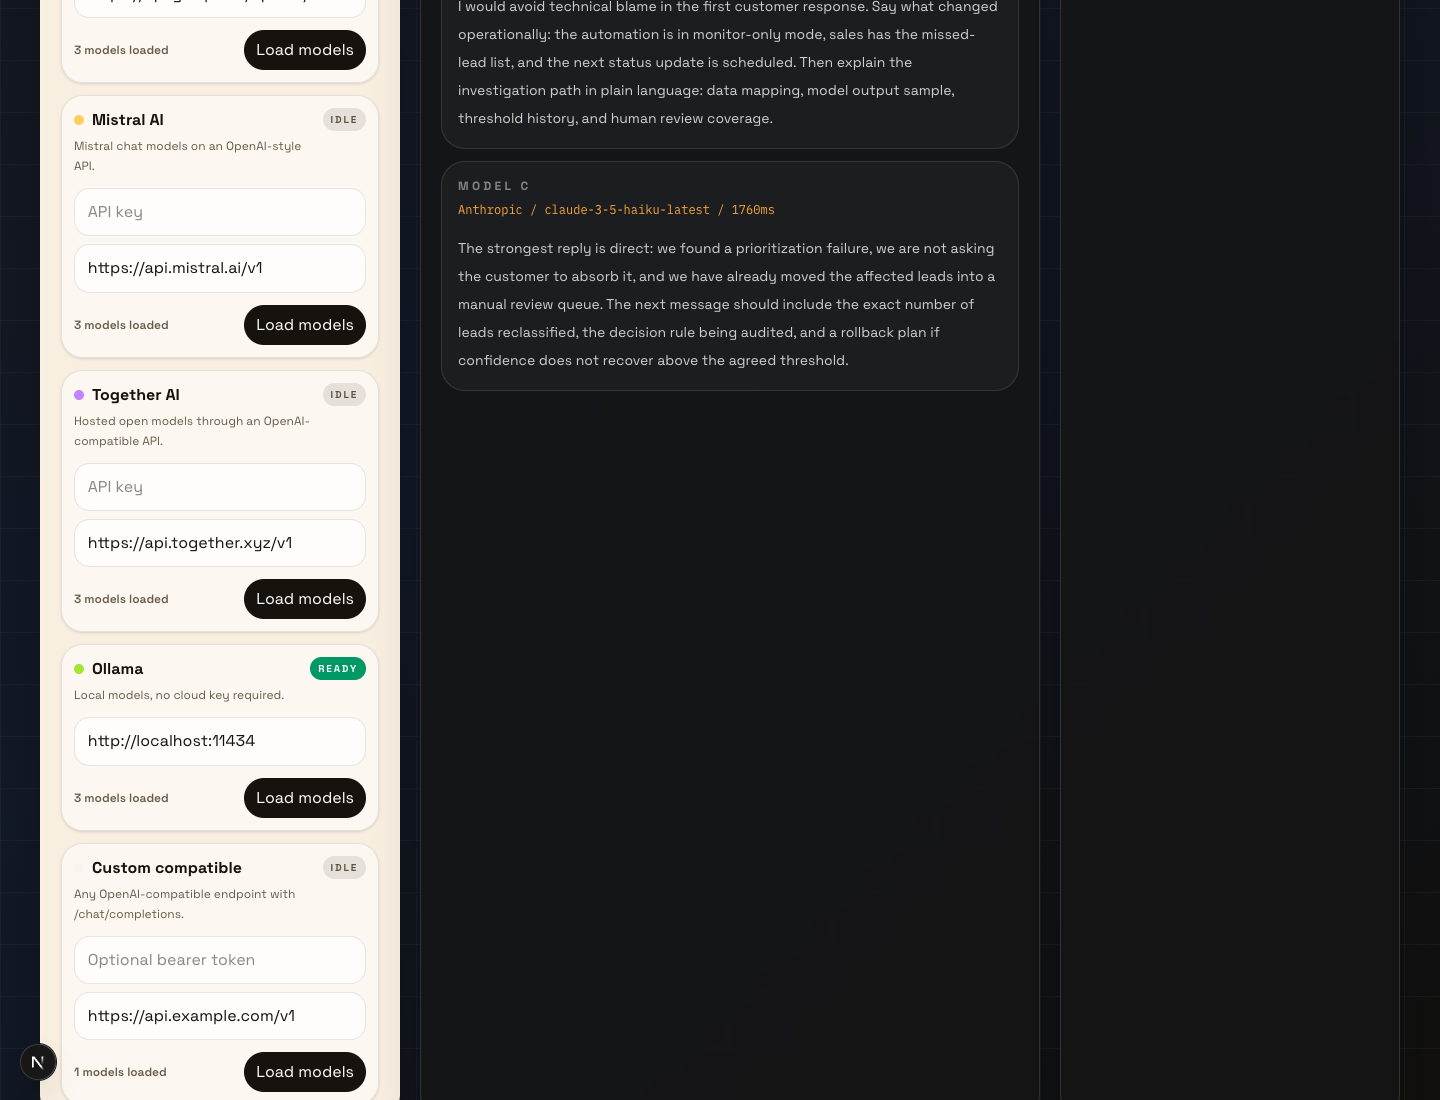
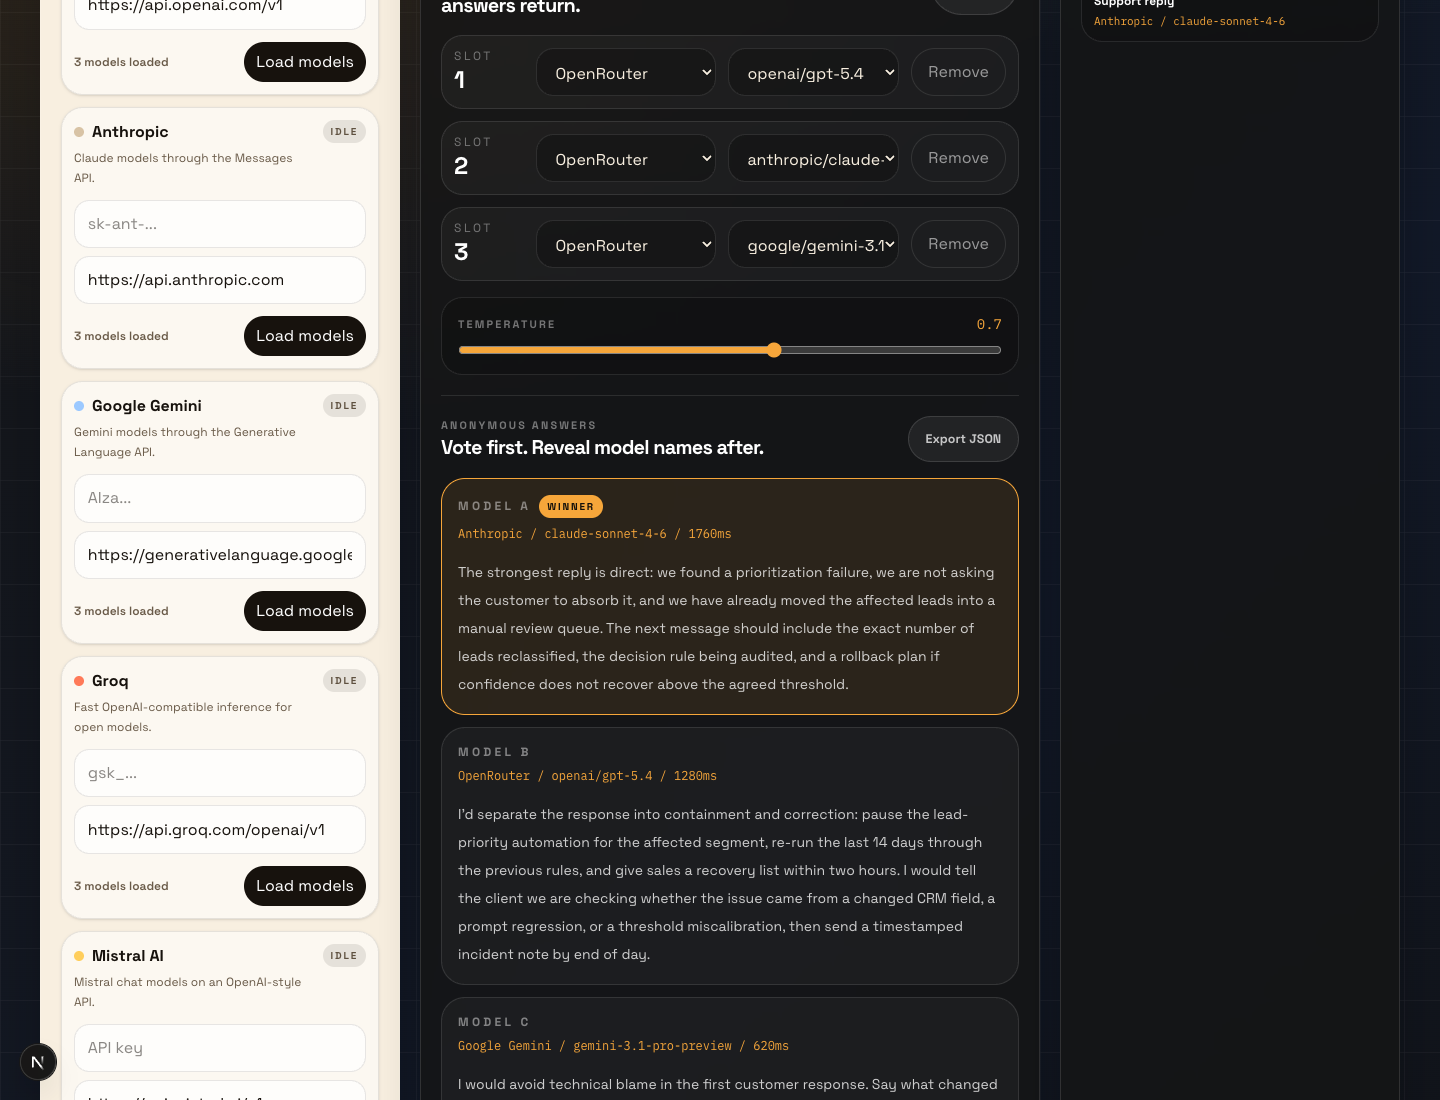
Refresh default model lineup

diff --git a/src/lib/providers.ts b/src/lib/providers.ts
@@ -74,9 +74,12 @@ export const providerDefinitions: ProviderDefinition[] = [
     description: "One key for many frontier and open models.",
     docsUrl: "https://openrouter.ai/docs",
     featured: [
-      "openai/gpt-4o-mini",
-      "anthropic/claude-3.5-haiku",
-      "google/gemini-flash-1.5",
+      "openai/gpt-5.4",
+      "openai/gpt-5.4-mini",
+      "anthropic/claude-opus-4.6-fast",
+      "anthropic/claude-sonnet-4.6",
+      "google/gemini-3.1-pro-preview",
+      "qwen/qwen3.6-plus",
     ],
     keyPlaceholder: "sk-or-...",
   },
@@ -90,7 +93,7 @@ export const providerDefinitions: ProviderDefinition[] = [
     accent: "#6ee7b7",
     description: "Direct OpenAI Chat Completions-compatible endpoint.",
     docsUrl: "https://platform.openai.com/docs/api-reference/chat",
-    featured: ["gpt-4o-mini", "gpt-4.1-mini", "gpt-4.1"],
+    featured: ["gpt-5.4", "gpt-5.4-mini", "gpt-5.4-nano"],
     keyPlaceholder: "sk-...",
   },
   {
@@ -104,9 +107,9 @@ export const providerDefinitions: ProviderDefinition[] = [
     description: "Claude models through the Messages API.",
     docsUrl: "https://docs.anthropic.com/en/api/messages",
     featured: [
-      "claude-3-5-haiku-latest",
-      "claude-3-5-sonnet-latest",
-      "claude-3-opus-latest",
+      "claude-opus-4-6",
+      "claude-sonnet-4-6",
+      "claude-haiku-4-5-20251001",
     ],
     keyPlaceholder: "sk-ant-...",
   },
@@ -120,7 +123,11 @@ export const providerDefinitions: ProviderDefinition[] = [
     accent: "#9cc9ff",
     description: "Gemini models through the Generative Language API.",
     docsUrl: "https://ai.google.dev/gemini-api/docs",
-    featured: ["gemini-1.5-flash", "gemini-1.5-pro", "gemini-2.0-flash"],
+    featured: [
+      "gemini-3.1-pro-preview",
+      "gemini-3.1-flash-lite-preview",
+      "gemini-3-flash-preview",
+    ],
     keyPlaceholder: "AIza...",
   },
   {
@@ -133,7 +140,11 @@ export const providerDefinitions: ProviderDefinition[] = [
     accent: "#ff7a59",
     description: "Fast OpenAI-compatible inference for open models.",
     docsUrl: "https://console.groq.com/docs/openai",
-    featured: ["llama-3.1-8b-instant", "llama-3.3-70b-versatile", "mixtral-8x7b-32768"],
+    featured: [
+      "openai/gpt-oss-120b",
+      "meta-llama/llama-4-maverick-17b-128e-instruct",
+      "meta-llama/llama-4-scout-17b-16e-instruct",
+    ],
     keyPlaceholder: "gsk_...",
   },
   {
@@ -146,7 +157,7 @@ export const providerDefinitions: ProviderDefinition[] = [
     accent: "#ffce5c",
     description: "Mistral chat models on an OpenAI-style API.",
     docsUrl: "https://docs.mistral.ai/api/",
-    featured: ["mistral-small-latest", "mistral-large-latest", "open-mixtral-8x22b"],
+    featured: ["mistral-large-latest", "mistral-medium-latest", "magistral-medium-latest"],
     keyPlaceholder: "API key",
   },
   {
@@ -160,9 +171,9 @@ export const providerDefinitions: ProviderDefinition[] = [
     description: "Hosted open models through an OpenAI-compatible API.",
     docsUrl: "https://docs.together.ai/docs/openai-api-compatibility",
     featured: [
-      "meta-llama/Llama-3.3-70B-Instruct-Turbo",
-      "Qwen/Qwen2.5-72B-Instruct-Turbo",
-      "mistralai/Mixtral-8x7B-Instruct-v0.1",
+      "Qwen/Qwen3-Next-80B-A3B-Instruct",
+      "meta-llama/Llama-4-Maverick-17B-128E-Instruct-FP8",
+      "openai/gpt-oss-120b",
     ],
     keyPlaceholder: "API key",
   },
@@ -176,7 +187,7 @@ export const providerDefinitions: ProviderDefinition[] = [
     accent: "#a3e635",
     description: "Local models, no cloud key required.",
     docsUrl: "https://github.com/ollama/ollama/blob/main/docs/openai.md",
-    featured: ["llama3.2", "qwen2.5", "mistral"],
+    featured: ["gpt-oss:20b", "qwen3:8b", "llama3.3"],
     keyPlaceholder: "No key",
   },
   {

diff --git a/src/lib/arena-data.ts b/src/lib/arena-data.ts
@@ -77,7 +77,7 @@ export const demoAnswers: BattleAnswer[] = [
     id: "demo-a",
     slot: "A",
     provider: "openrouter",
-    model: "openai/gpt-4o-mini",
+    model: "openai/gpt-5.4",
     status: "ok",
     latencyMs: 1280,
     text:
@@ -87,7 +87,7 @@ export const demoAnswers: BattleAnswer[] = [
     id: "demo-b",
     slot: "B",
     provider: "anthropic",
-    model: "claude-3-5-haiku-latest",
+    model: "claude-sonnet-4-6",
     status: "ok",
     latencyMs: 1760,
     text:
@@ -96,8 +96,8 @@ export const demoAnswers: BattleAnswer[] = [
   {
     id: "demo-c",
     slot: "C",
-    provider: "groq",
-    model: "llama-3.3-70b-versatile",
+    provider: "google",
+    model: "gemini-3.1-pro-preview",
     status: "ok",
     latencyMs: 620,
     text:

diff --git a/src/components/arena-app.tsx b/src/components/arena-app.tsx
@@ -55,9 +55,9 @@ const initialProviderState = Object.fromEntries(
 ) as Record<ProviderId, ProviderState>;
 
 const defaultSlots: CandidateSlot[] = [
-  { id: "candidate-1", provider: "openrouter", model: "openai/gpt-4o-mini" },
-  { id: "candidate-2", provider: "openrouter", model: "anthropic/claude-3.5-haiku" },
-  { id: "candidate-3", provider: "groq", model: "llama-3.3-70b-versatile" },
+  { id: "candidate-1", provider: "openrouter", model: "openai/gpt-5.4" },
+  { id: "candidate-2", provider: "openrouter", model: "anthropic/claude-sonnet-4.6" },
+  { id: "candidate-3", provider: "openrouter", model: "google/gemini-3.1-pro-preview" },
 ];
 
 export function ArenaApp() {

diff --git a/README.md b/README.md
@@ -30,6 +30,8 @@ Supported out of the box:
 - Ollama
 - Any OpenAI-compatible endpoint
 
+The default model list is intentionally modern: OpenRouter slots start with GPT-5.4, Claude 4.6, Gemini 3.1, and Qwen 3.6 family IDs. Direct provider cards also use current-generation defaults, but the recommended workflow is still to click `Load models` after adding a key so the app syncs the exact IDs available on your account.
+
 Keys are stored in browser localStorage and sent only to the local Next.js API route for the active request. The app does not store provider keys server-side.
 
 ## Features
